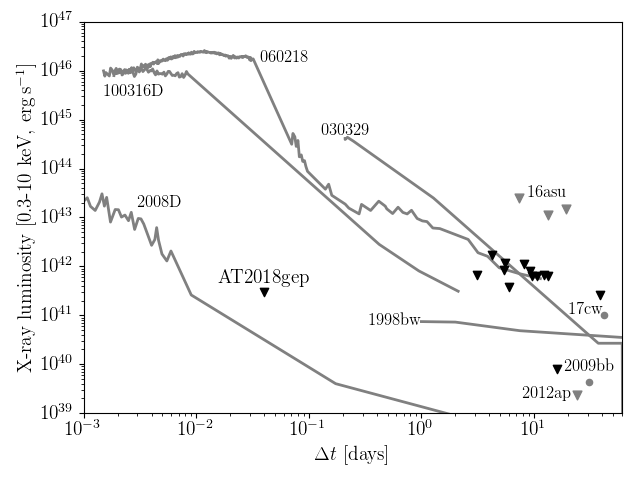
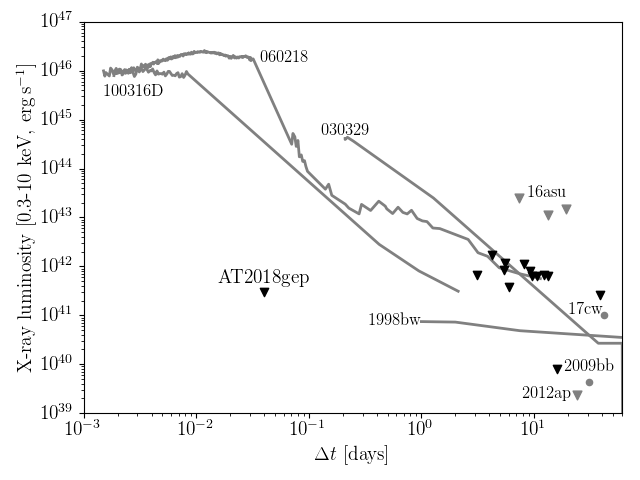
Get rid of 2008D

diff --git a/code/paper_plots/xray_lc.py b/code/paper_plots/xray_lc.py
@@ -78,22 +78,6 @@ plt.text(
     horizontalalignment='center',
     verticalalignment='bottom', fontsize=12)
 
-# Need 2008D
-f = data_dir + "/2008D.txt"
-dat = np.loadtxt(f, dtype=str, delimiter='&', skiprows=1)
-dt_sec = np.array(
-        [string.replace('\xa0', '') for string in dat[:,0]]).astype(float)
-dt_day = dt_sec/86400
-lum = 1E42*np.array(
-        [string.replace('\xa0', '') for string in dat[:,2]]).astype(float)
-elum = 1E42*np.array(
-        [string.replace('\xa0', '') for string in dat[:,3]]).astype(float)
-plt.plot(dt_day, lum, c='grey', lw=2, zorder=1)
-plt.text(
-    3E-3, 2E43, '2008D',
-    horizontalalignment='left',
-    verticalalignment='center', fontsize=12)
-
 # 2009bb
 # Soderberg 2009
 # detection from Chandra
